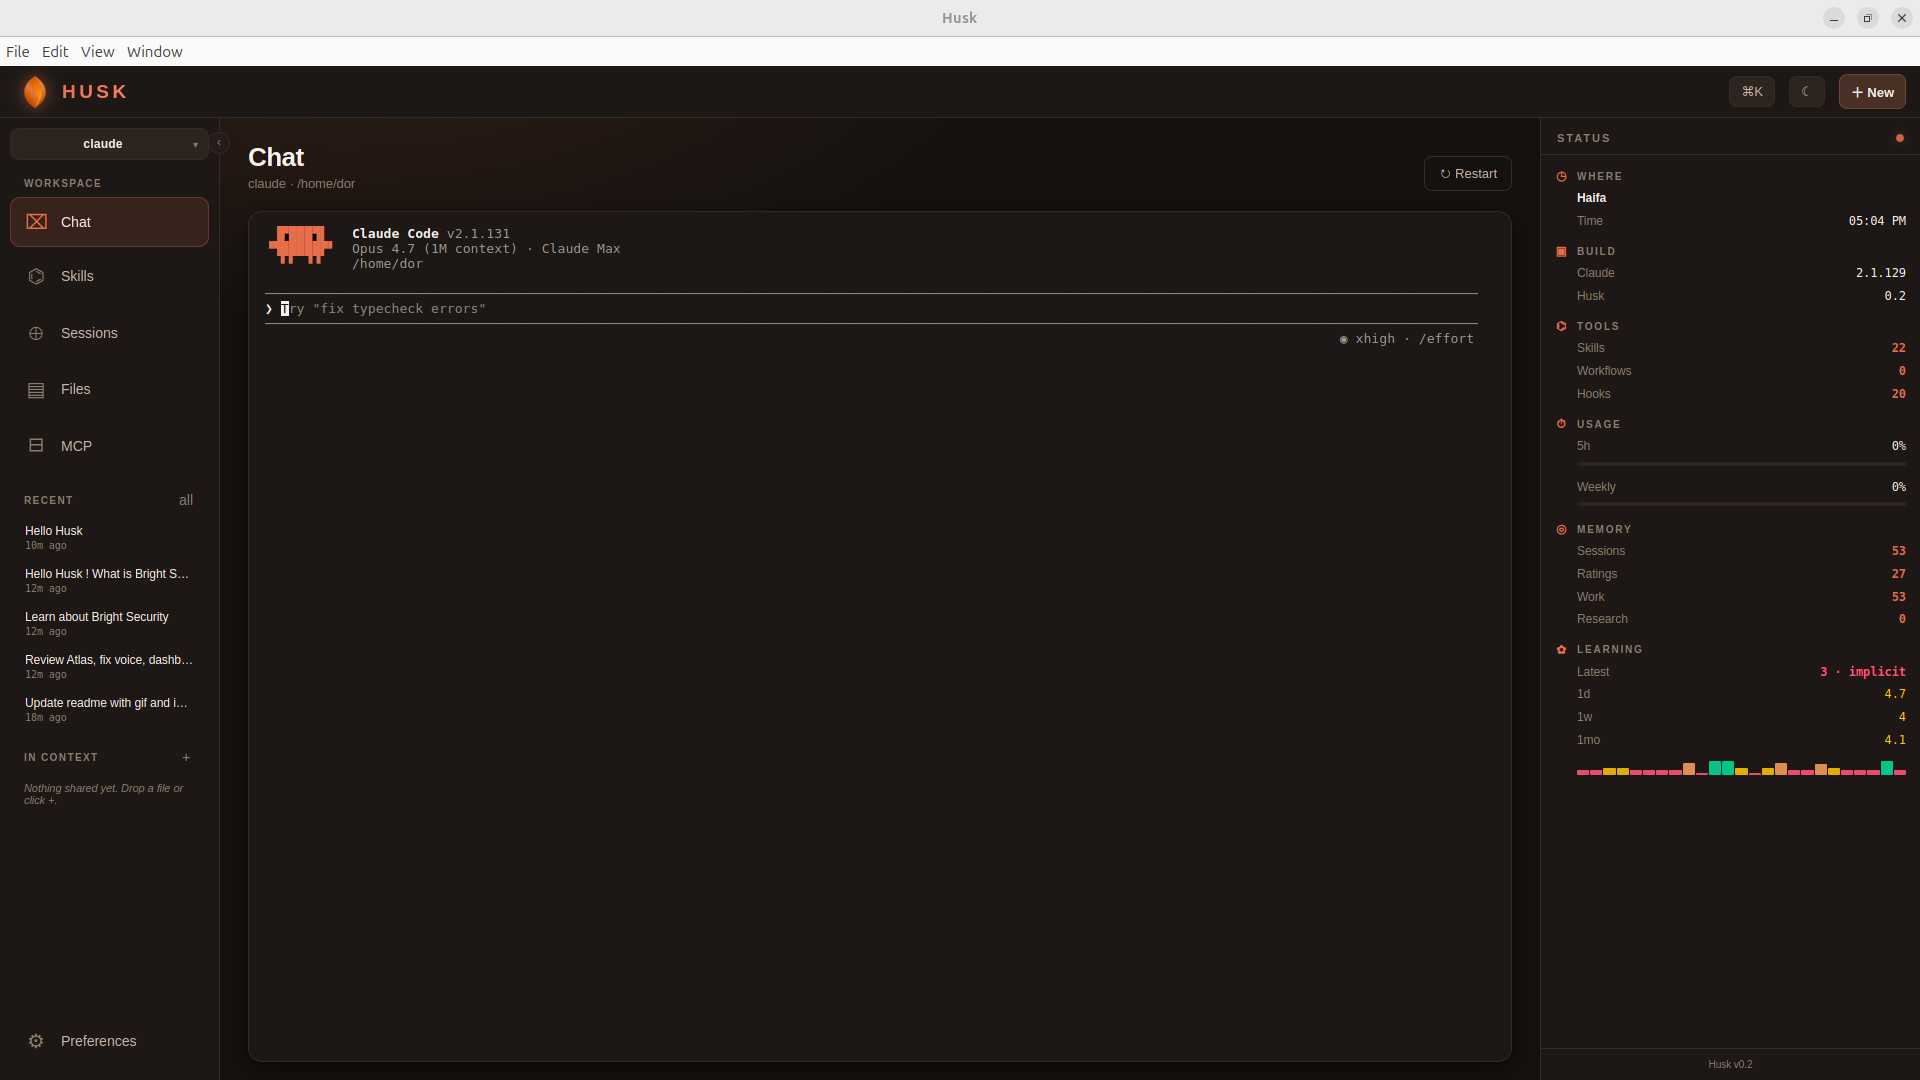
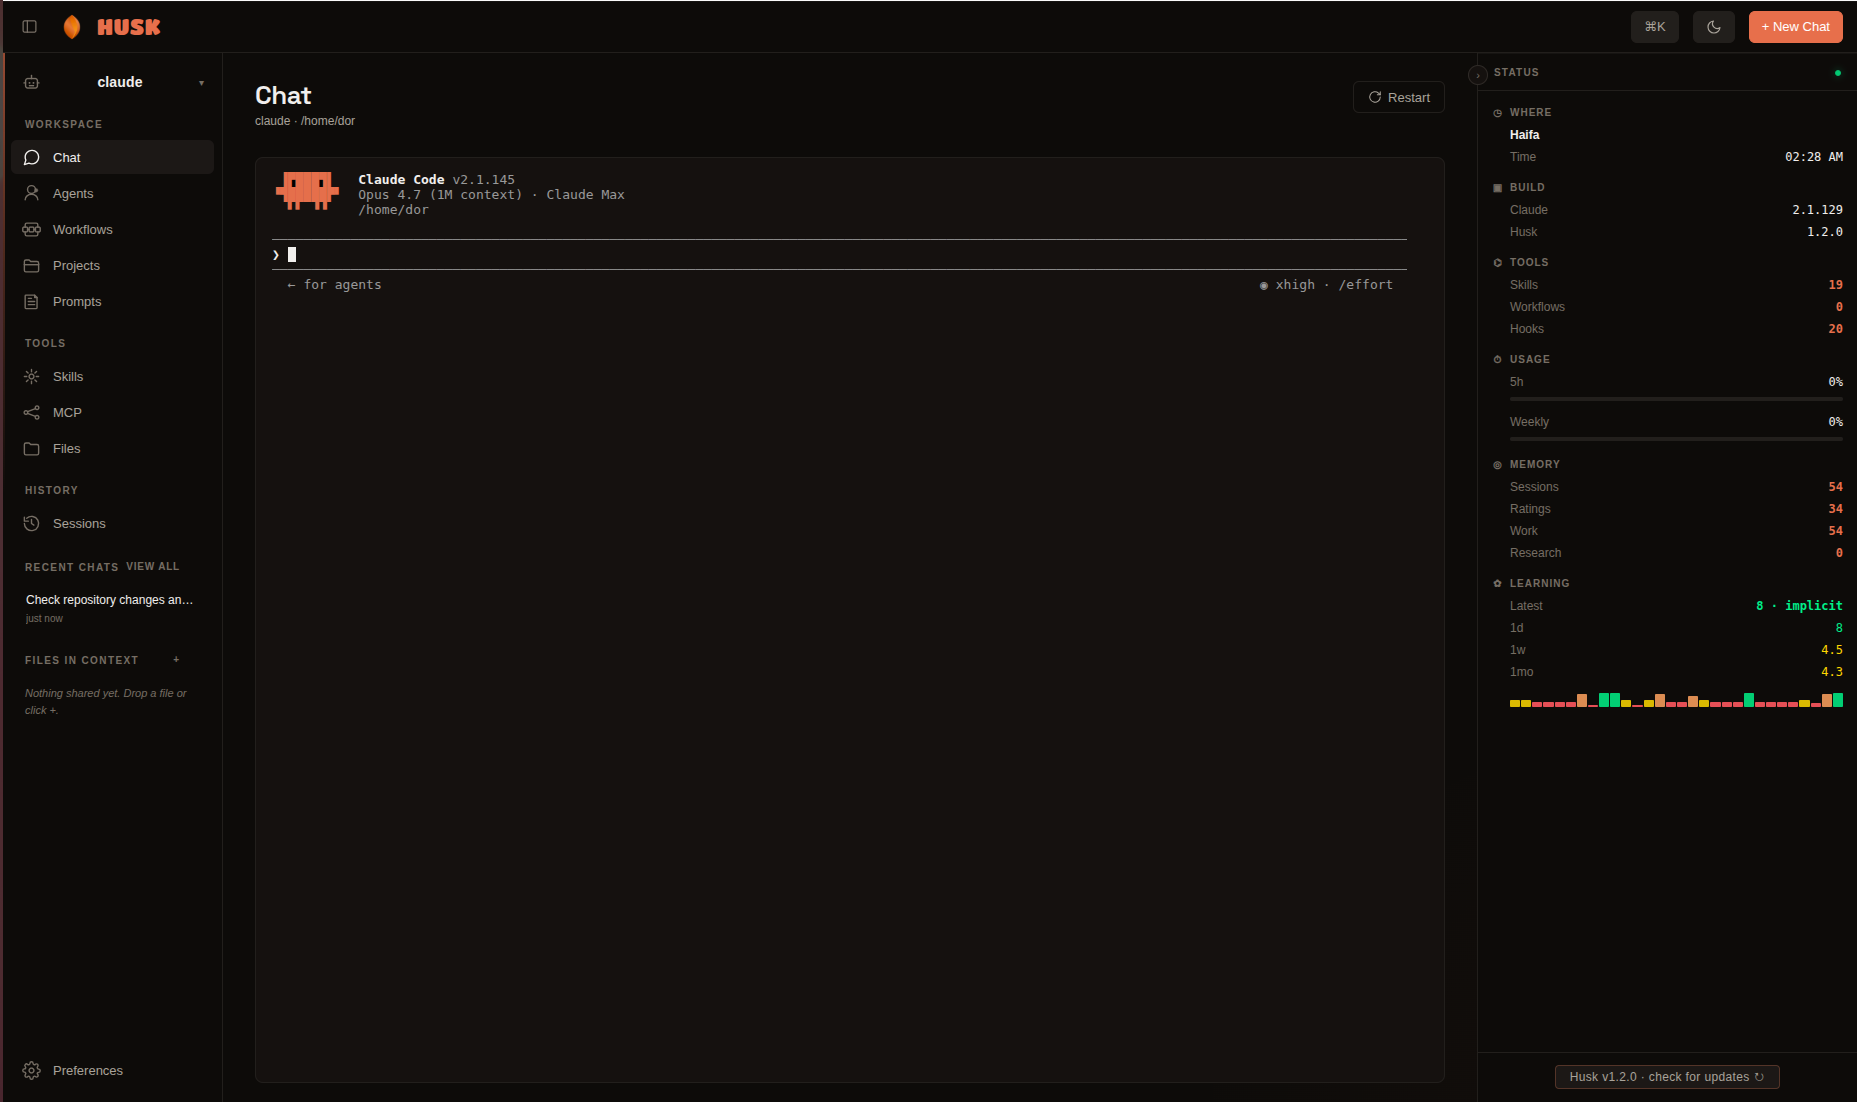
docs(readme): refresh all feature screenshots, extend gallery
Replace the 4 existing PNGs with fresh captures matching the v1.2.x
UI. Add 4 new shots covering surfaces the README did not previously
showcase:

  husk-chat.png         (replaces) Chat with the agent in a real PTY
  husk-agents.png       (new)      Agents page with built-in personas
  husk-workflows.png    (new)      Workflow graph editor mid-edit
  husk-projects.png     (new)      Add Project modal
  husk-prompts.png      (new)      Prompts grid with one-click run
  husk-skills.png       (replaces) Skills grid with animated toggles
  husk-mcp.png          (replaces) MCP servers with health state
  husk-mcp-install.png  (replaces) Install custom MCP modal

Gallery is now five rows: chat (full width), agents + workflows,
projects + prompts, skills + MCP, install modal. Captions are plain
prose with no em dashes.

diff --git a/README.md b/README.md
@@ -26,6 +26,18 @@ CLI agents are powerful and free. But they live in a black-on-black terminal tha
 
 <br /><br />
 
+<img src="docs/images/husk-agents.png" alt="Agents page" width="450" />
+<img src="docs/images/husk-workflows.png" alt="Workflows graph editor" width="450" />
+<br /><sub><i>Curate the agent personas active for the next session. Build multi-step automations with conditional branching in the Workflows graph editor.</i></sub>
+
+<br /><br />
+
+<img src="docs/images/husk-projects.png" alt="Pin a project folder" width="450" />
+<img src="docs/images/husk-prompts.png" alt="Prompts library" width="450" />
+<br /><sub><i>Pin folders as Projects so the agent always starts in the right cwd. Save reusable prompts and fire them with one click.</i></sub>
+
+<br /><br />
+
 <img src="docs/images/husk-skills.png" alt="Skills page" width="450" />
 <img src="docs/images/husk-mcp.png" alt="MCP servers page" width="450" />
 <br /><sub><i>Skills with one-click <b>Use</b>, animated toggles, and source badges. MCP servers with live connection state and a curated catalog.</i></sub>
